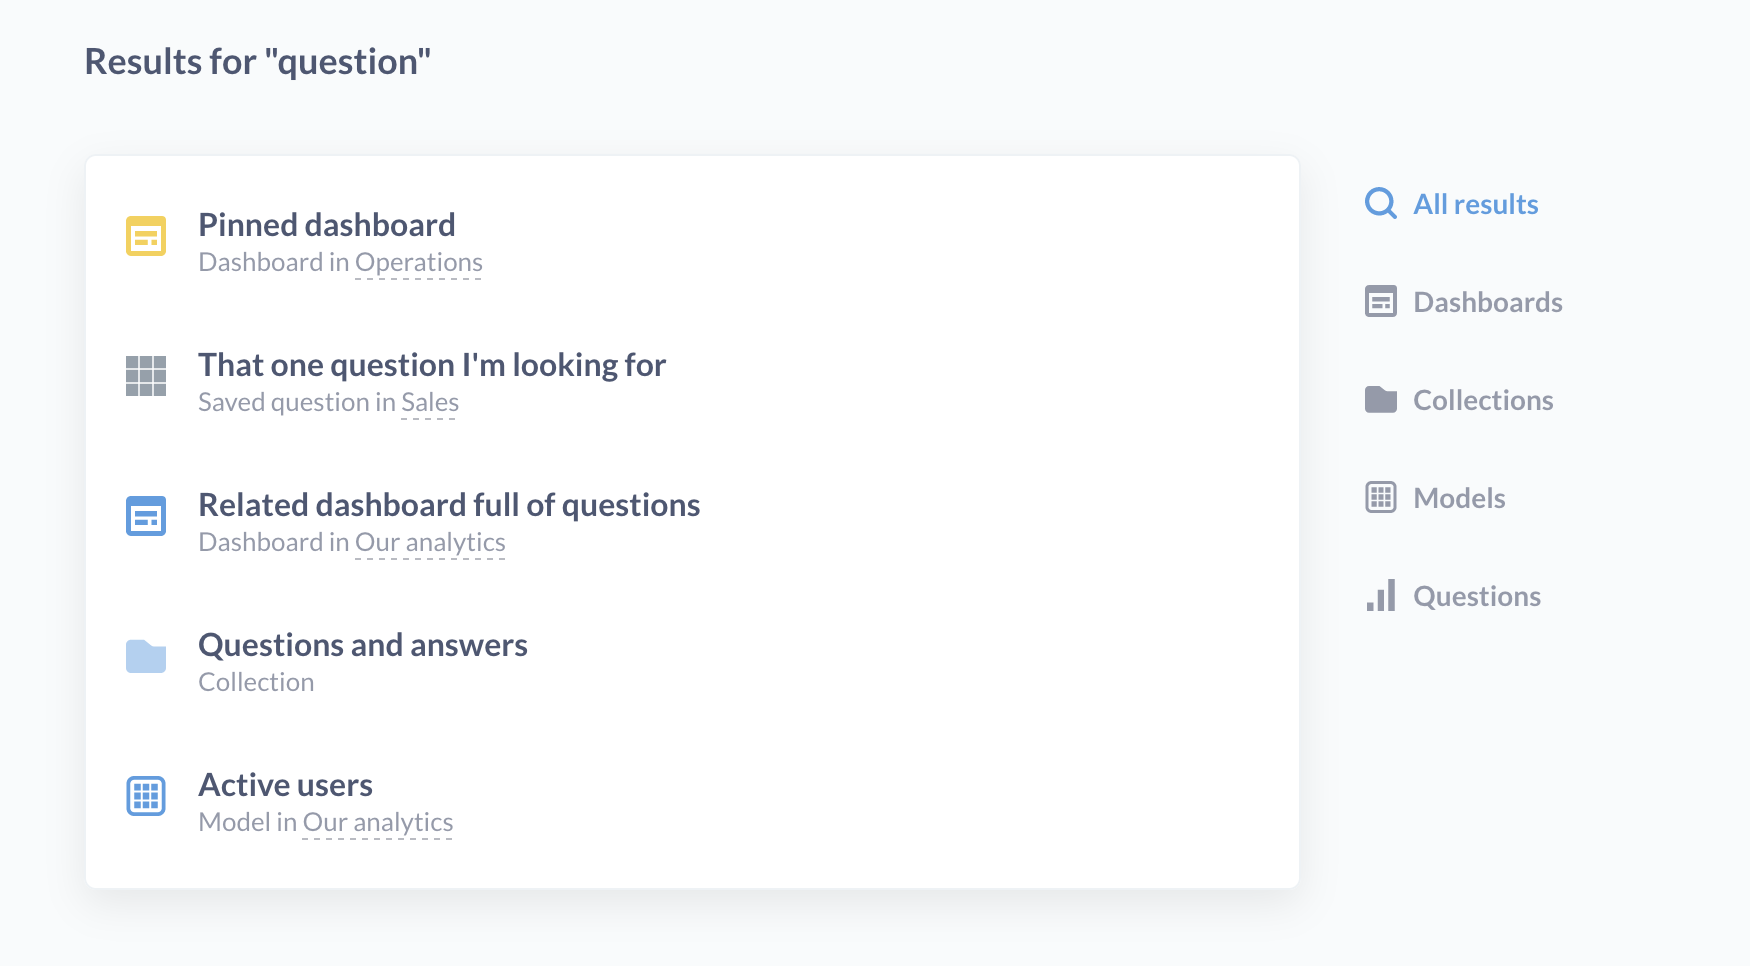
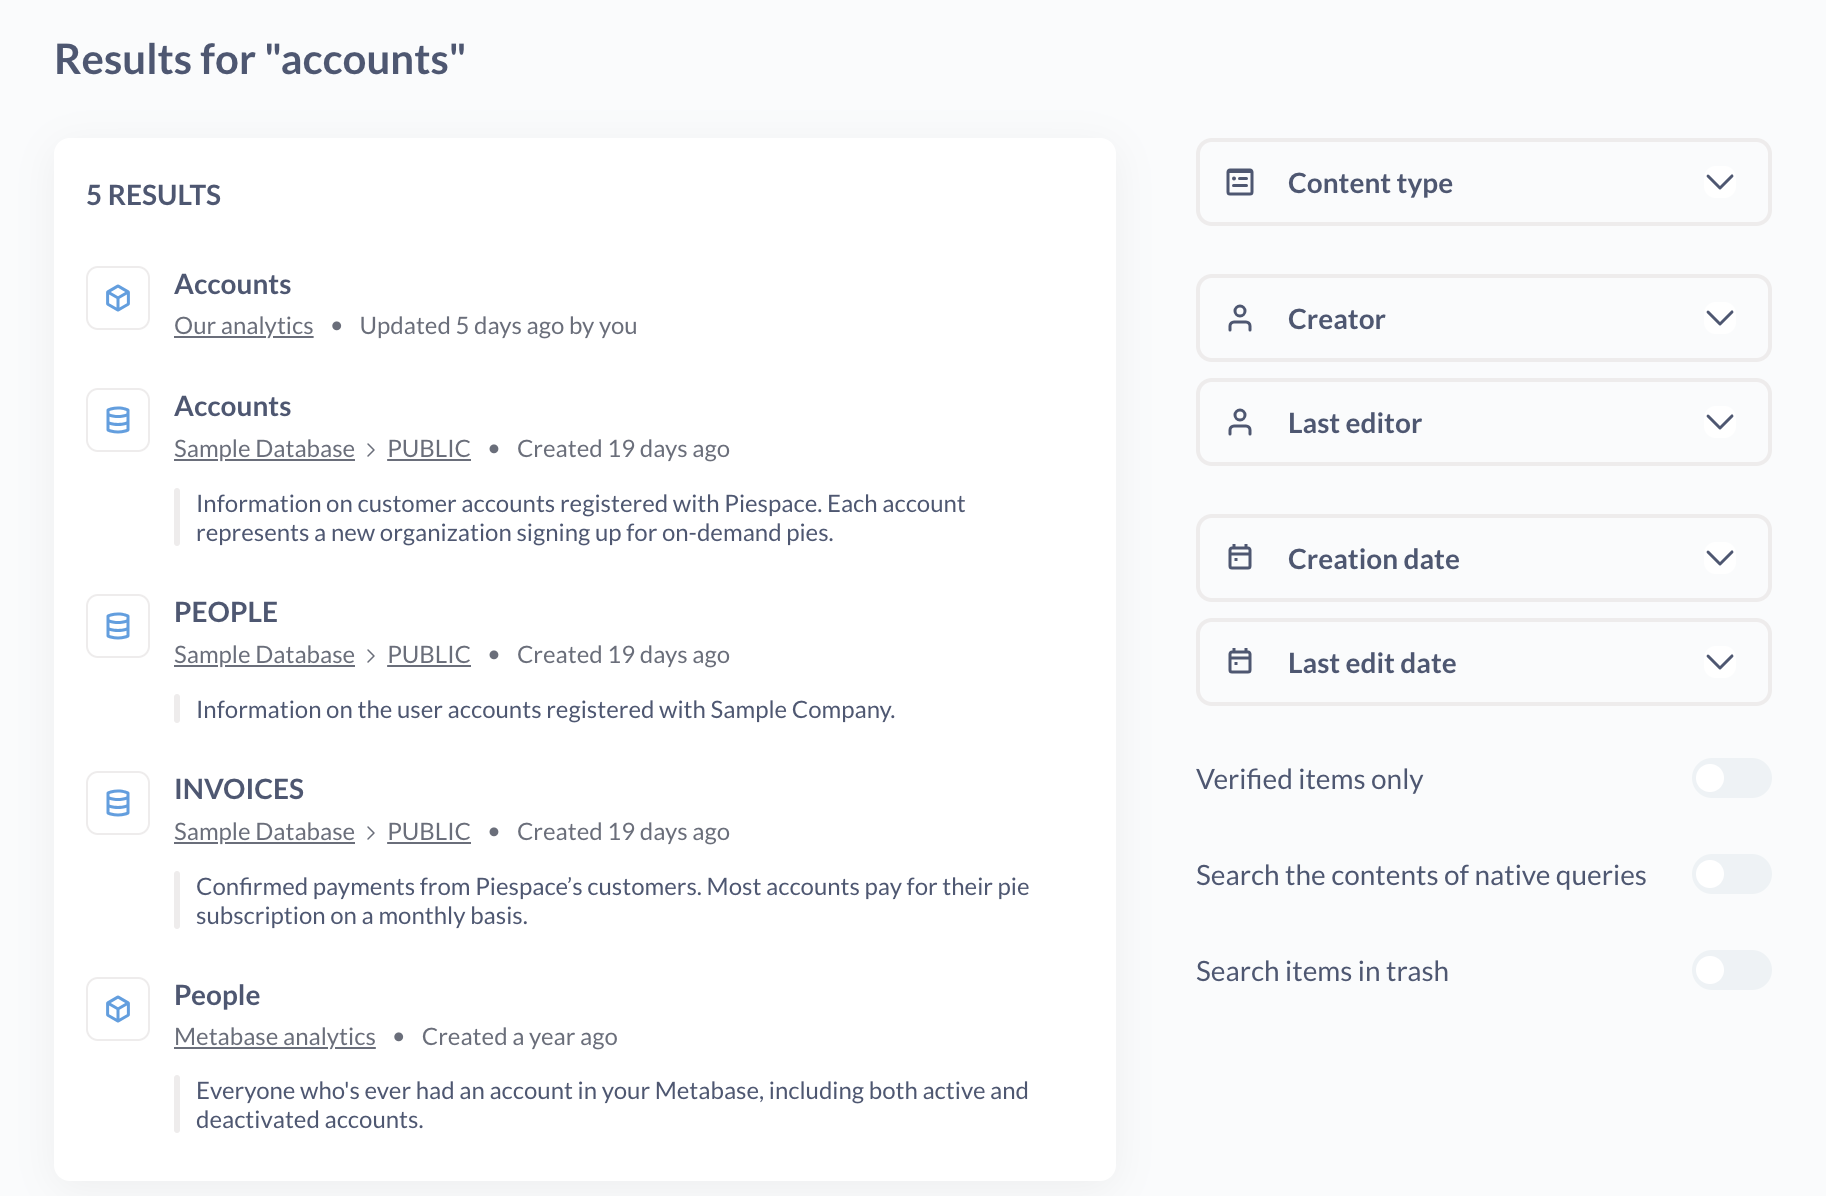
docs - command palette (#42397)

diff --git a/docs/exploration-and-organization/exploration.md b/docs/exploration-and-organization/exploration.md
@@ -10,11 +10,54 @@ redirect_from:
 
 As long as you're not the very first user in your team's Metabase, the easiest way to start exploring your data is by looking at dashboards, charts, and lists that your teammates have already created. The best place to start is by checking out any dashboards that might be pinned on your home page, or in [collections][collections] you have access to.
 
+## Command palette
+
+The command palette lets you create new things, search your content, or jump to anywhere in your Metabase.
+
+To bring up the command palette, hit cmd/ctrl + k. That's `cmd + k` for Macs, or `ctrl + k` for Windows PCs.
+
+You can use the command palette to:
+
+- Create new things (like new questions and dashboards)
+- Find things (saved questions, dashboards, models, etc.)
+- Find and jump to Admin and account settings.
+
+So anytime you want to do or find anything in Metabase, just hit `cmd/ctrl + k` and start typing what you want to do.
+
+> The command palette is currently unavailable in [interactive embedding](../embedding/interactive-embedding.md) contexts.
+
+## Advanced search
+
+To filter your search results, hit `cmd/ctrl + k` to bring up the command palette and enter your search term. The first result is a link to "Search and filter all X results".
+
+![Search results](./images/search-results.png)
+
+Searches take into account items’ titles, descriptions, and other metadata — you can even search the contents of your SQL queries. For example, you can search for things like `SELECT escape_pod FROM mothership` and find that one question you worked on six months ago. The results will display which collection each item is saved in, what kind of object it is, and whether it’s pinned. Note that you'll only ever see items in that are in collections you have permission to view.
+
+You can search by:
+
+- **Content type**: dashboard, question, model, collection, database, table.
+- **Creator**: who made the thing.
+- **Last editor**: who made the last saved change on the thing.
+- **Creation date**: when the thing entered our universe.
+- **Last edit date**: when someone last cared enough to update the thing.
+- **Verified items only**. Only show items that [have been verified](#verified-items).
+- **Search the contents of native queries**: search through the SQL/native code in questions.
+- **Search items in trash**: include the depths of oblivion in your search.
+
 ## Browse your data
 
-Alternatively, you can dive right in to exploring the data in Metabase by clicking on one of the databases at the bottom of the home page or clicking **Browse** > **Databases** in the side nav bar, and then selecting a database and clicking on one of its tables to see it. You can also hover over any table and click on the bolt icon to see an automatic exploration of the table's data. Give it a try!
-
 ![Browse databases](./images/browse-data.png)
+
+To explore databases and models, click on either the **Models** or **Databases** browsers in the left sidebar.
+
+### Browse models
+
+The models browser list all the models in your Metabase. [Pro](https://www.metabase.com/product/pro) and [Enterprise](https://www.metabase.com/product/enterprise) plans include the ability to filter for [Verified models](#verified-items).
+
+### Browse databases
+
+The data browser will list all the databases connected to your Metabase. Hover over a table and click on the **bolt** icon to [X-ray](x-rays.md) the table, or click on the **book** icon to view more info about the table: its fields and their descriptions (if any), what questions are based on that table, and more.
 
 To learn more, see [Exploring data with Metabase's data browser](https://www.metabase.com/learn/basics/questions/data-browser.html).
 
@@ -69,14 +112,6 @@ When you're looking at the detail view of a question, you can use all the same a
 ![Heading actions](images/heading-actions.png)
 
 One of our personal favorite ways to explore is with the **Distribution** option. This will show you how many rows there are in a given table, grouped by the column you clicked on. So if you have a Users table, if you click on an Age column and select Distribution, you'll see a bar chart with the count of users you have in each age bracket.
-
-## Search
-
-Use the search bar to find dashboards, questions, collections, subscriptions, and alerts. You can select a result from the dropdown, or hit enter to view a search results page. You can also activate the search bar from anywhere by pressing the `/` key.
-
-Searches take into account items’ titles, descriptions, and other metadata — you can even search the contents of your SQL queries. For example, you can search for things like `SELECT escape_pod FROM mothership` and find that one question you worked on six months ago. The results will display which collection each item is saved in, what kind of object it is, and whether it’s pinned. Note that you'll only ever see items in collections you have permission to view.
-
-![Search results](./images/search-results.png)
 
 ## Bookmarks
 
